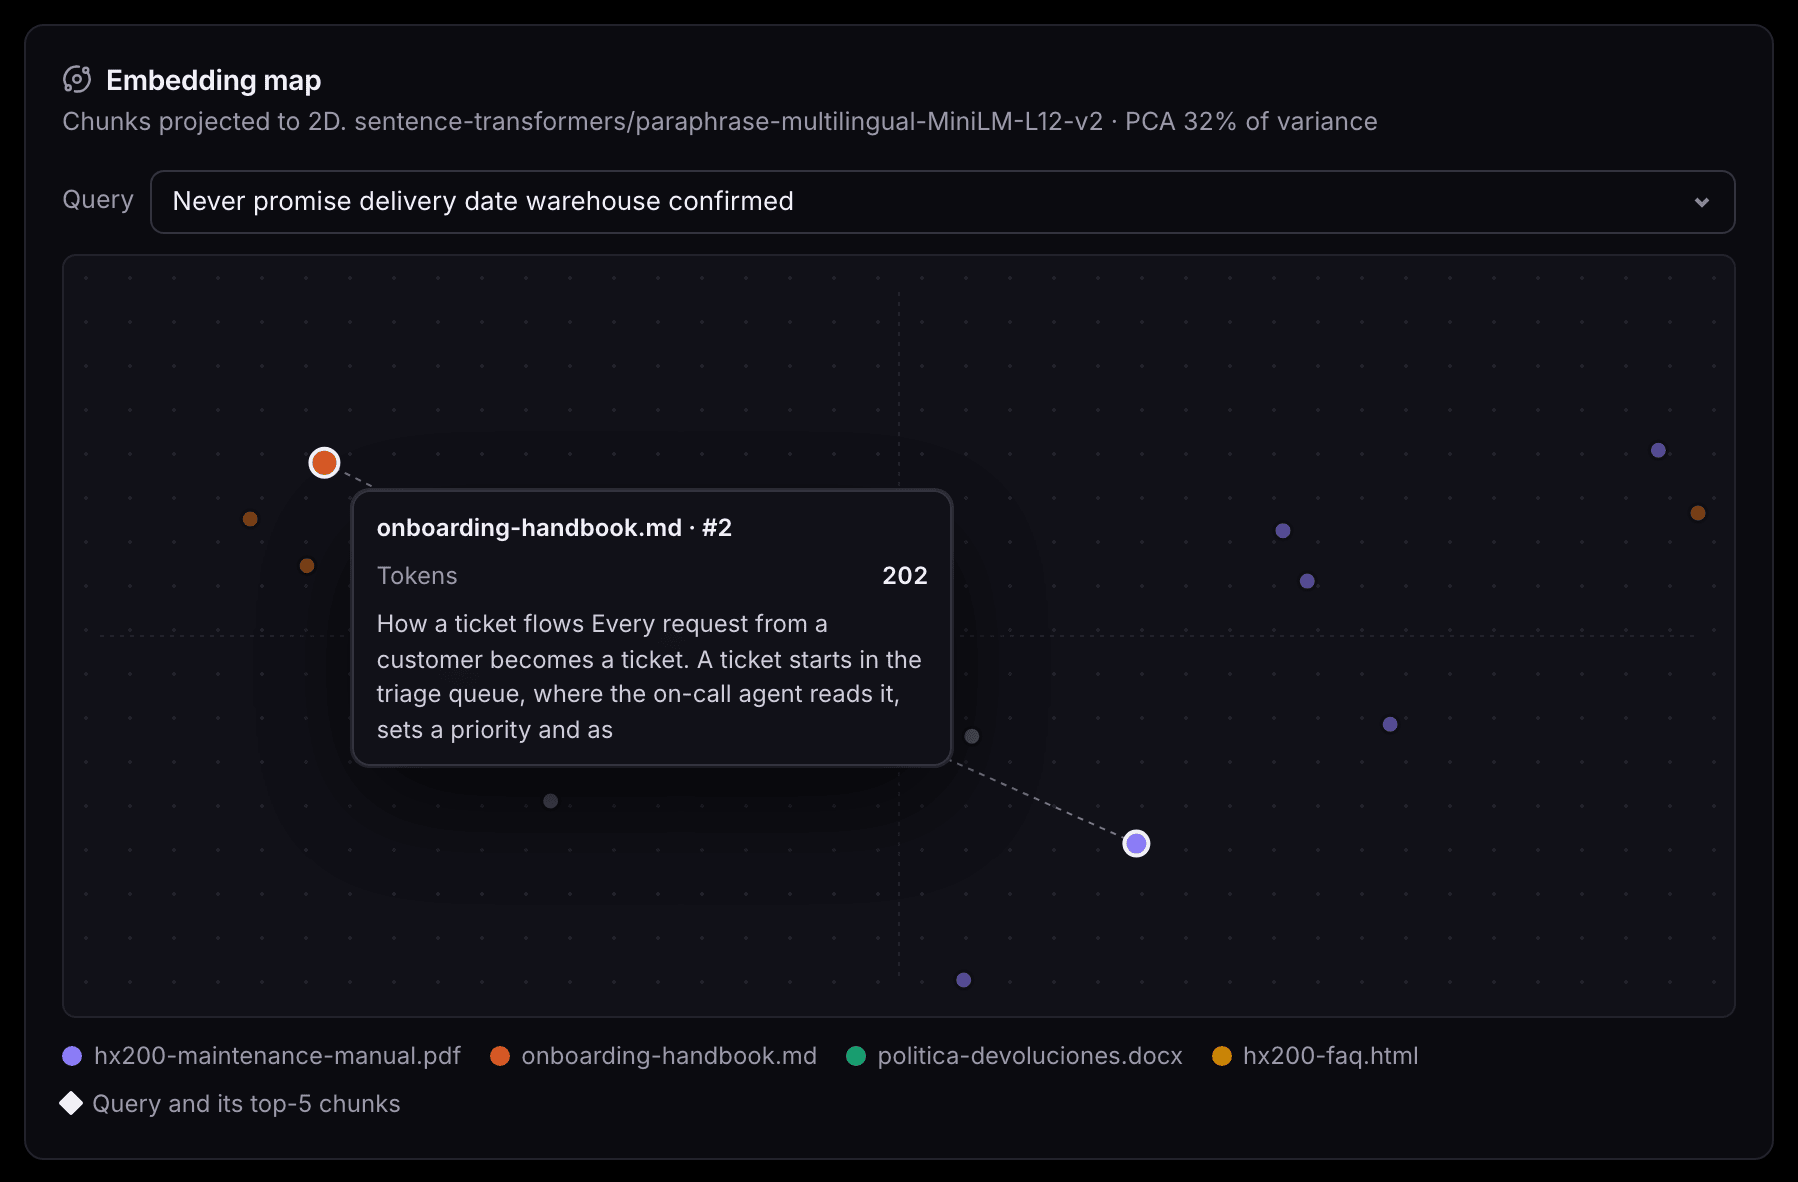
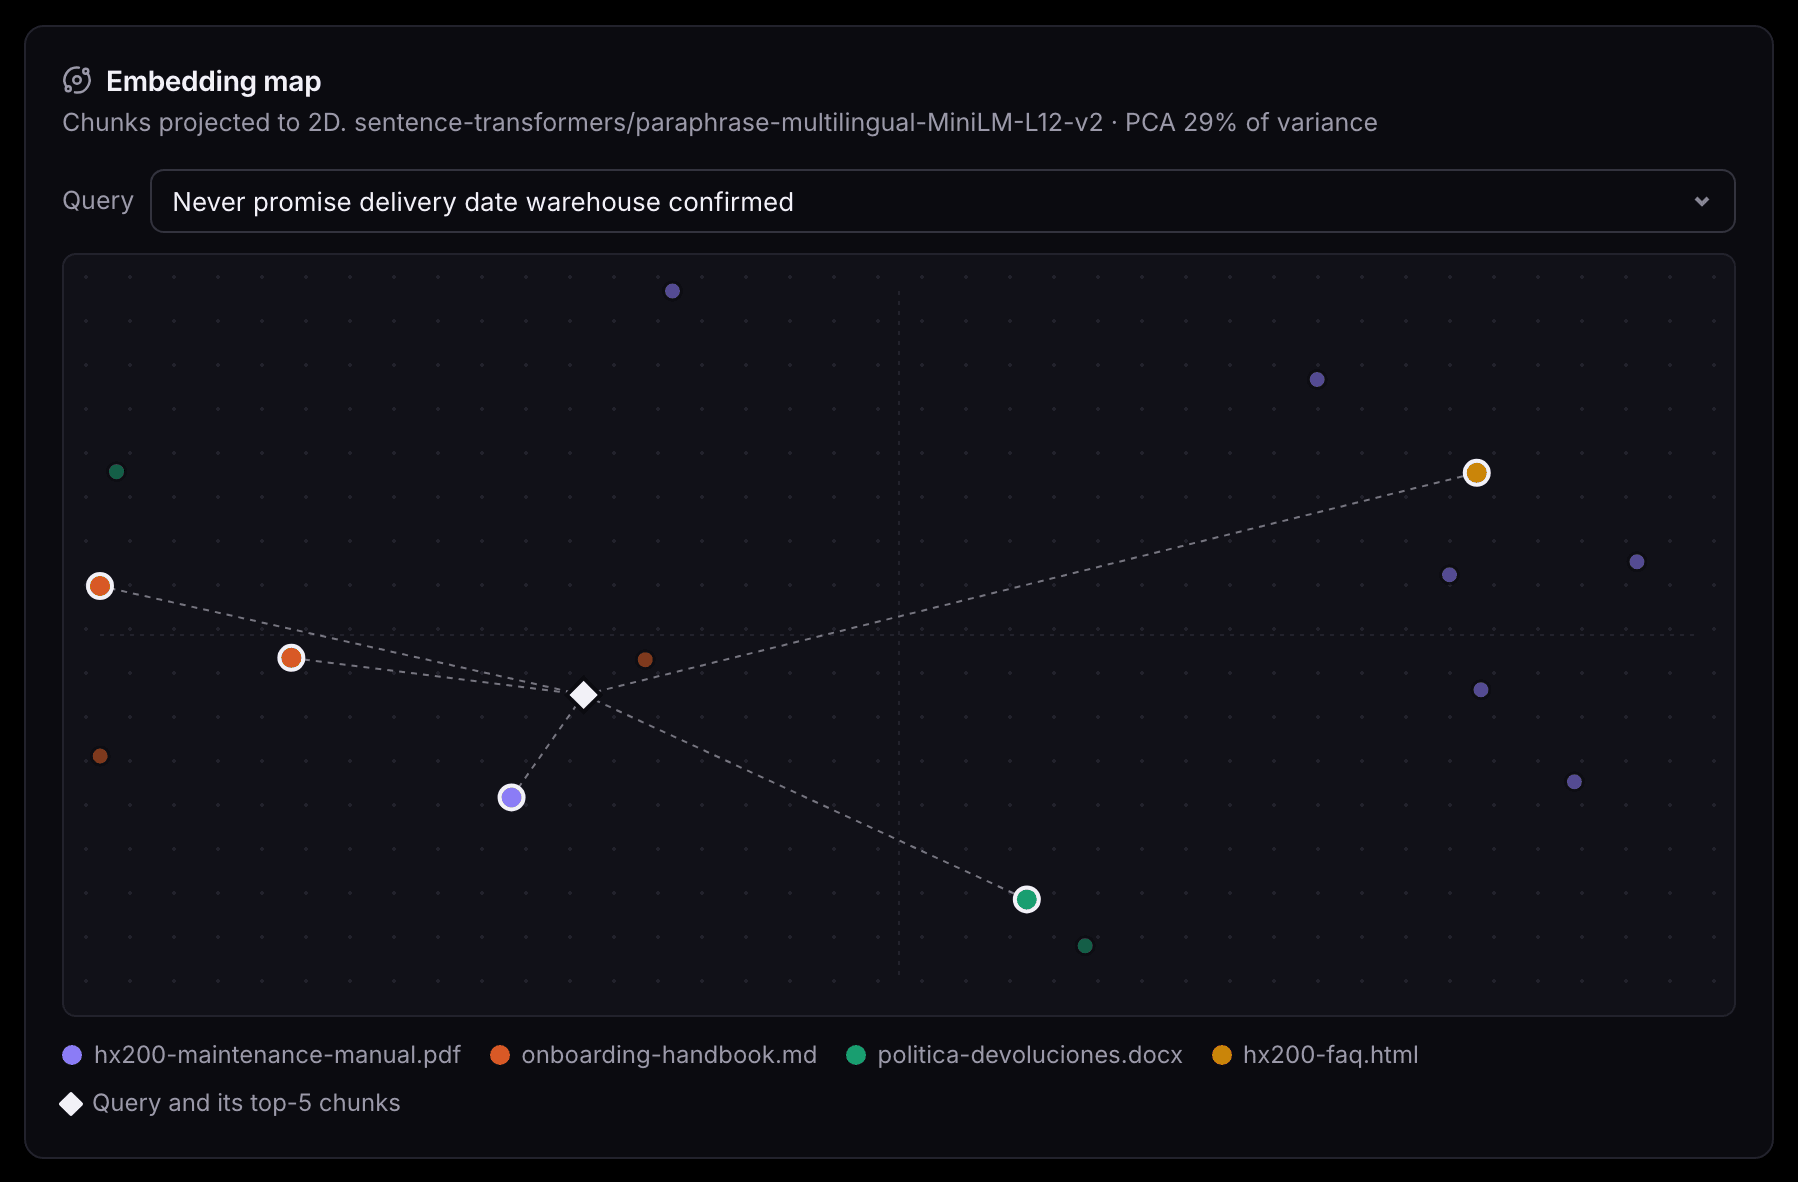
Show recall within the context budget and each benchmark warning
The benchmark panel adds Recall@budget next to recall@k, MRR and nDCG,
lists every server warning on its own line and notes how many tokens the
dense model reads per pass. Screenshots of the report, benchmark and
embedding map are retaken with the updated benchmark.

diff --git a/web/src/components/Benchmark.tsx b/web/src/components/Benchmark.tsx
@@ -5,39 +5,56 @@ import { useStore, useT } from "../store";
 import type { Bench, BenchConfig, Interval } from "../types";
 import { Empty, Panel, Segmented, Skeleton, TipRows, useTipProps } from "./ui";
 
-const METRICS = ["recall_at_k", "mrr", "ndcg"] as const;
+const METRICS = ["recall_at_budget", "recall_at_k", "mrr", "ndcg"] as const;
 type Metric = (typeof METRICS)[number];
 const MAX_SERIES = 5;
 
-function metricName(metric: Metric, k: number) {
+function metricName(metric: Metric, k: number, budget?: number) {
+  if (metric === "recall_at_budget") return `Recall@${budget ?? "?"} tok`;
   return metric === "recall_at_k" ? `Recall@${k}` : metric === "mrr" ? "MRR" : `nDCG@${k}`;
 }
 
 const fmt = (i: Interval) => `${i.mean.toFixed(3)} [${i.ci[0].toFixed(2)}, ${i.ci[1].toFixed(2)}]`;
 
-function IntervalBars({ configs, metric, k, winner, colorOf }: { configs: BenchConfig[]; metric: Metric; k: number; winner: string; colorOf: (c: BenchConfig) => string }) {
+function IntervalBars({
+  configs,
+  metric,
+  k,
+  budget,
+  winner,
+  colorOf,
+}: {
+  configs: BenchConfig[];
+  metric: Metric;
+  k: number;
+  budget?: number;
+  winner: string;
+  colorOf: (c: BenchConfig) => string;
+}) {
   const t = useT();
   const tip = useTipProps();
-  const lo = Math.max(0, Math.floor((Math.min(...configs.map((c) => c[metric].ci[0])) - 0.05) * 10) / 10);
+  const value = (c: BenchConfig): Interval => c[metric] ?? { mean: 0, ci: [0, 0] };
+  const name = metricName(metric, k, budget);
+  const lo = Math.max(0, Math.floor((Math.min(...configs.map((c) => value(c).ci[0])) - 0.05) * 10) / 10);
   const x = (v: number) => `${(100 * (v - lo)) / (1 - lo)}%`;
   return (
     <div className="ci-chart">
-      <h4>{metricName(metric, k)}</h4>
+      <h4>{name}</h4>
       <ul>
         {configs.map((c) => (
           <li
             key={c.label}
             className={c.label === winner ? "winner" : ""}
             {...tip(
-              <TipRows title={c.label} rows={[[metricName(metric, k), c[metric].mean.toFixed(3)], [t.ci95, `${c[metric].ci[0].toFixed(3)} – ${c[metric].ci[1].toFixed(3)}`], [t.chunks, String(c.chunks)]]} />,
-              `${c.label} ${metricName(metric, k)} ${fmt(c[metric])}`,
+              <TipRows title={c.label} rows={[[name, value(c).mean.toFixed(3)], [t.ci95, `${value(c).ci[0].toFixed(3)} – ${value(c).ci[1].toFixed(3)}`], [t.chunks, String(c.chunks)]]} />,
+              `${c.label} ${name} ${fmt(value(c))}`,
             )}
           >
             <span className="ci-track">
-              <span className="ci-bar" style={{ width: x(c[metric].mean), background: colorOf(c) }} />
-              <span className="ci-whisker" style={{ left: x(c[metric].ci[0]), width: `calc(${x(c[metric].ci[1])} - ${x(c[metric].ci[0])})` }} />
+              <span className="ci-bar" style={{ width: x(value(c).mean), background: colorOf(c) }} />
+              <span className="ci-whisker" style={{ left: x(value(c).ci[0]), width: `calc(${x(value(c).ci[1])} - ${x(value(c).ci[0])})` }} />
             </span>
-            <span className="ci-value tabular">{c[metric].mean.toFixed(2)}</span>
+            <span className="ci-value tabular">{value(c).mean.toFixed(2)}</span>
           </li>
         ))}
       </ul>
@@ -193,6 +210,7 @@ function Results({ bench }: { bench: Bench }) {
   const margin = bench.winner.margin;
   // The synthetic-queries warning is shown, translated, next to the query quality.
   const warnings = bench.mode === "file" ? bench.warnings : bench.warnings.filter((w) => !w.includes("--queries"));
+  const metrics = METRICS.filter((m) => configs.every((c) => c[m]));
   const n3 = (v: number) => v.toLocaleString(lang, { minimumFractionDigits: 3, maximumFractionDigits: 3 });
   return (
     <>
@@ -221,13 +239,18 @@ function Results({ bench }: { bench: Bench }) {
         </div>
         <div className="winner-meta muted">
           {bench.queries} {t.queriesLower} · seed {bench.seed} · {bench.dense_model ?? "BM25"}
+          {bench.dense_max_tokens ? ` (${bench.dense_max_tokens} ${t.tokPerPass})` : ""}
         </div>
       </div>
       <QueryQuality bench={bench} />
       {warnings.length > 0 && (
-        <p className="inline-warn">
-          <TriangleAlert size={14} aria-hidden /> {warnings.join(" ")}
-        </p>
+        <ul className="warn-list">
+          {warnings.map((w) => (
+            <li key={w} className="inline-warn">
+              <TriangleAlert size={14} aria-hidden /> <span>{w}</span>
+            </li>
+          ))}
+        </ul>
       )}
       <div className="bench-toolbar">
         {retrievers.length > 1 && (
@@ -244,8 +267,8 @@ function Results({ bench }: { bench: Bench }) {
         </div>
       </div>
       <div className="bench-grid">
-        {METRICS.map((m) => (
-          <IntervalBars key={m} configs={configs} metric={m} k={bench.k} winner={bench.winner.label} colorOf={colorOf} />
+        {metrics.map((m) => (
+          <IntervalBars key={m} configs={configs} metric={m} k={bench.k} budget={bench.budget_tokens} winner={bench.winner.label} colorOf={colorOf} />
         ))}
       </div>
       <div className="bench-grid two">

diff --git a/web/src/i18n.ts b/web/src/i18n.ts
@@ -150,7 +150,8 @@ const en = {
   damage: "Damage",
 
   benchmark: "Retrieval benchmark",
-  benchHint: "Recall, MRR and nDCG with 95% bootstrap intervals over generated queries.",
+  benchHint: "Recall within a context budget, recall@k, MRR and nDCG with 95% bootstrap intervals over generated queries.",
+  tokPerPass: "tokens per pass",
   benchEmpty: "No benchmark yet",
   benchEmptyHint: "Generate queries from your files and measure how well each chunking retrieves their source passage.",
   benchRunning: "Generating queries and retrieving with each configuration",
@@ -394,7 +395,8 @@ const es: Dict = {
   damage: "Daño",
 
   benchmark: "Benchmark de recuperación",
-  benchHint: "Recall, MRR y nDCG con intervalos bootstrap del 95% sobre consultas generadas.",
+  benchHint: "Recall dentro de un presupuesto de contexto, recall@k, MRR y nDCG con intervalos bootstrap del 95% sobre consultas generadas.",
+  tokPerPass: "tokens por pasada",
   benchEmpty: "Aún no hay benchmark",
   benchEmptyHint: "Genera consultas a partir de tus ficheros y mide cómo recupera cada chunking su pasaje de origen.",
   benchRunning: "Generando consultas y recuperando con cada configuración",

diff --git a/web/src/types.ts b/web/src/types.ts
@@ -142,6 +142,8 @@ export interface BenchConfig {
   recommended: boolean;
   chunks: number;
   recall_at_k: Interval;
+  /** Span recall within budget_tokens of retrieved context; the chunking decision uses it. */
+  recall_at_budget?: Interval;
   mrr: Interval;
   ndcg: Interval;
   curves: { recall: Record<string, number> };
@@ -169,6 +171,9 @@ export interface Bench {
   lexical_overlap?: { mean: number; by_kind: Record<string, number> };
   retrievers: string[];
   dense_model: string | null;
+  /** Tokens per dense pass; longer chunks are embedded in windows and averaged. */
+  dense_max_tokens?: number | null;
+  budget_tokens?: number;
   warnings: string[];
   primary_metric: "ndcg" | "mrr" | "recall_at_k";
   configs: BenchConfig[];

diff --git a/web/src/styles.css b/web/src/styles.css
@@ -1902,8 +1902,25 @@ kbd {
 
 .bench-grid {
   display: grid;
-  grid-template-columns: repeat(3, minmax(0, 1fr));
+  grid-template-columns: repeat(auto-fit, minmax(220px, 1fr));
   gap: 24px;
+}
+
+.warn-list {
+  display: grid;
+  gap: 6px;
+  margin: 0 0 12px;
+  padding: 0;
+  list-style: none;
+}
+
+.warn-list .inline-warn {
+  margin: 0;
+}
+
+.inline-warn > svg {
+  flex: none;
+  margin-top: 2px;
 }
 
 .bench-grid.two {
